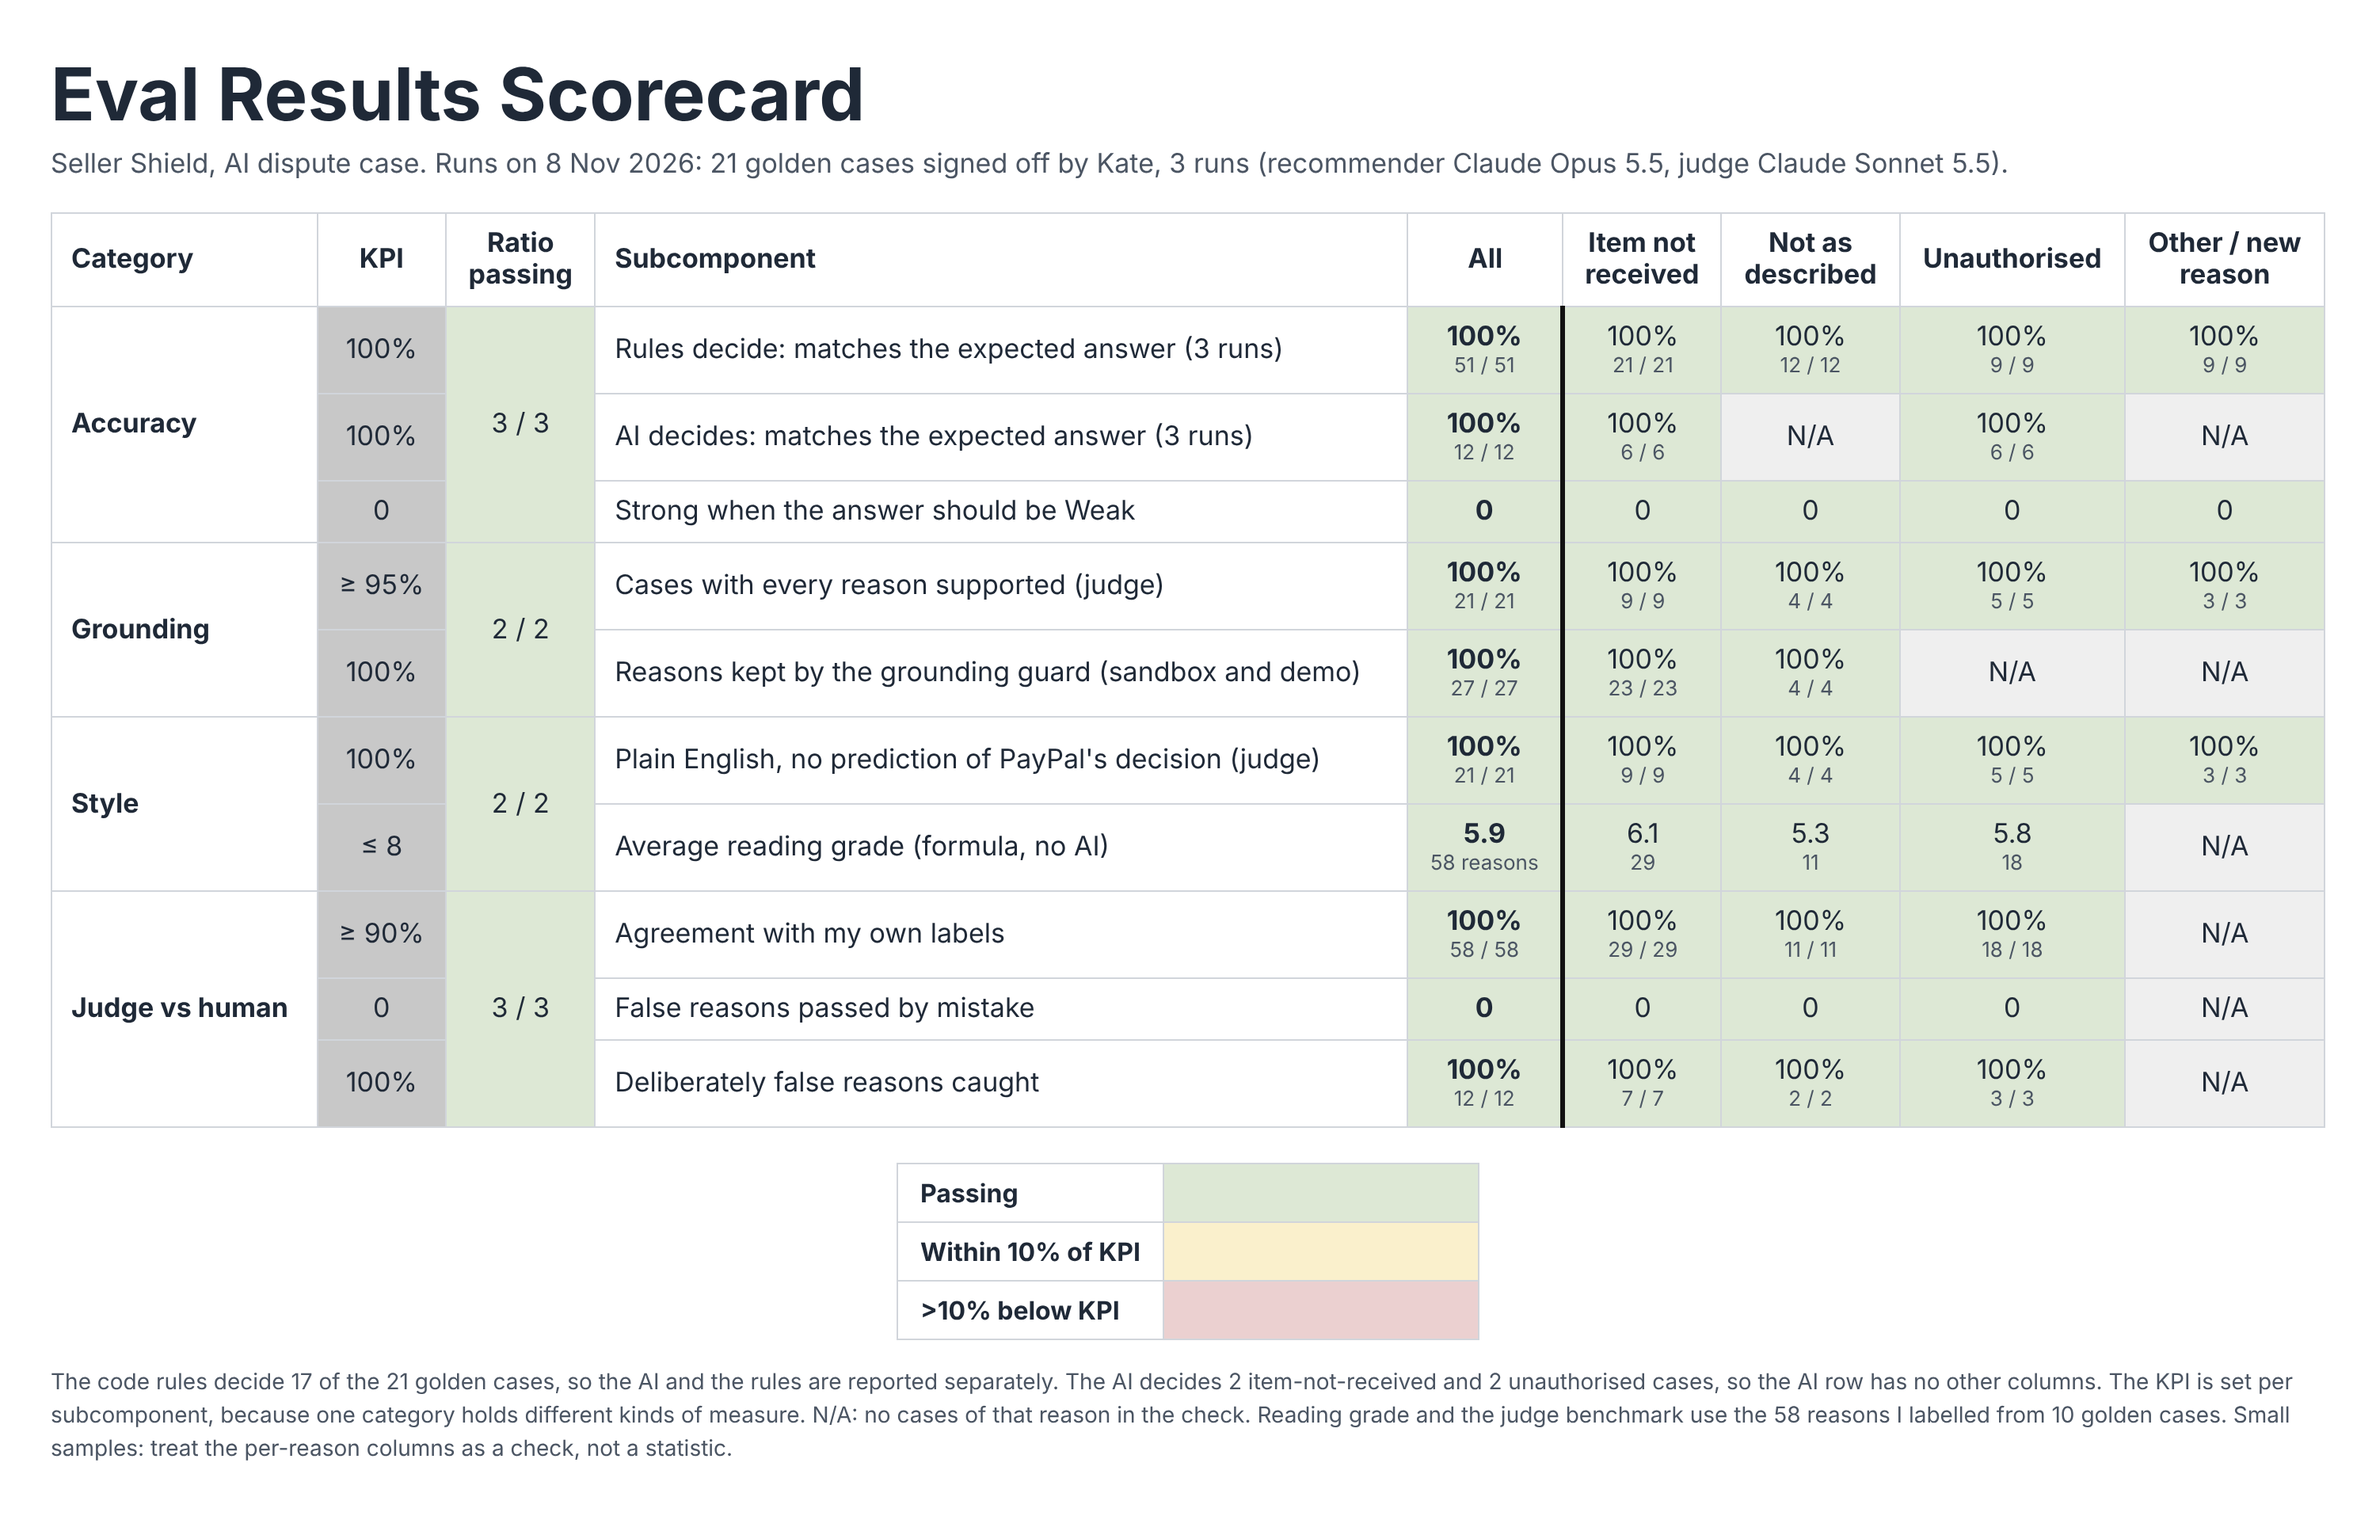
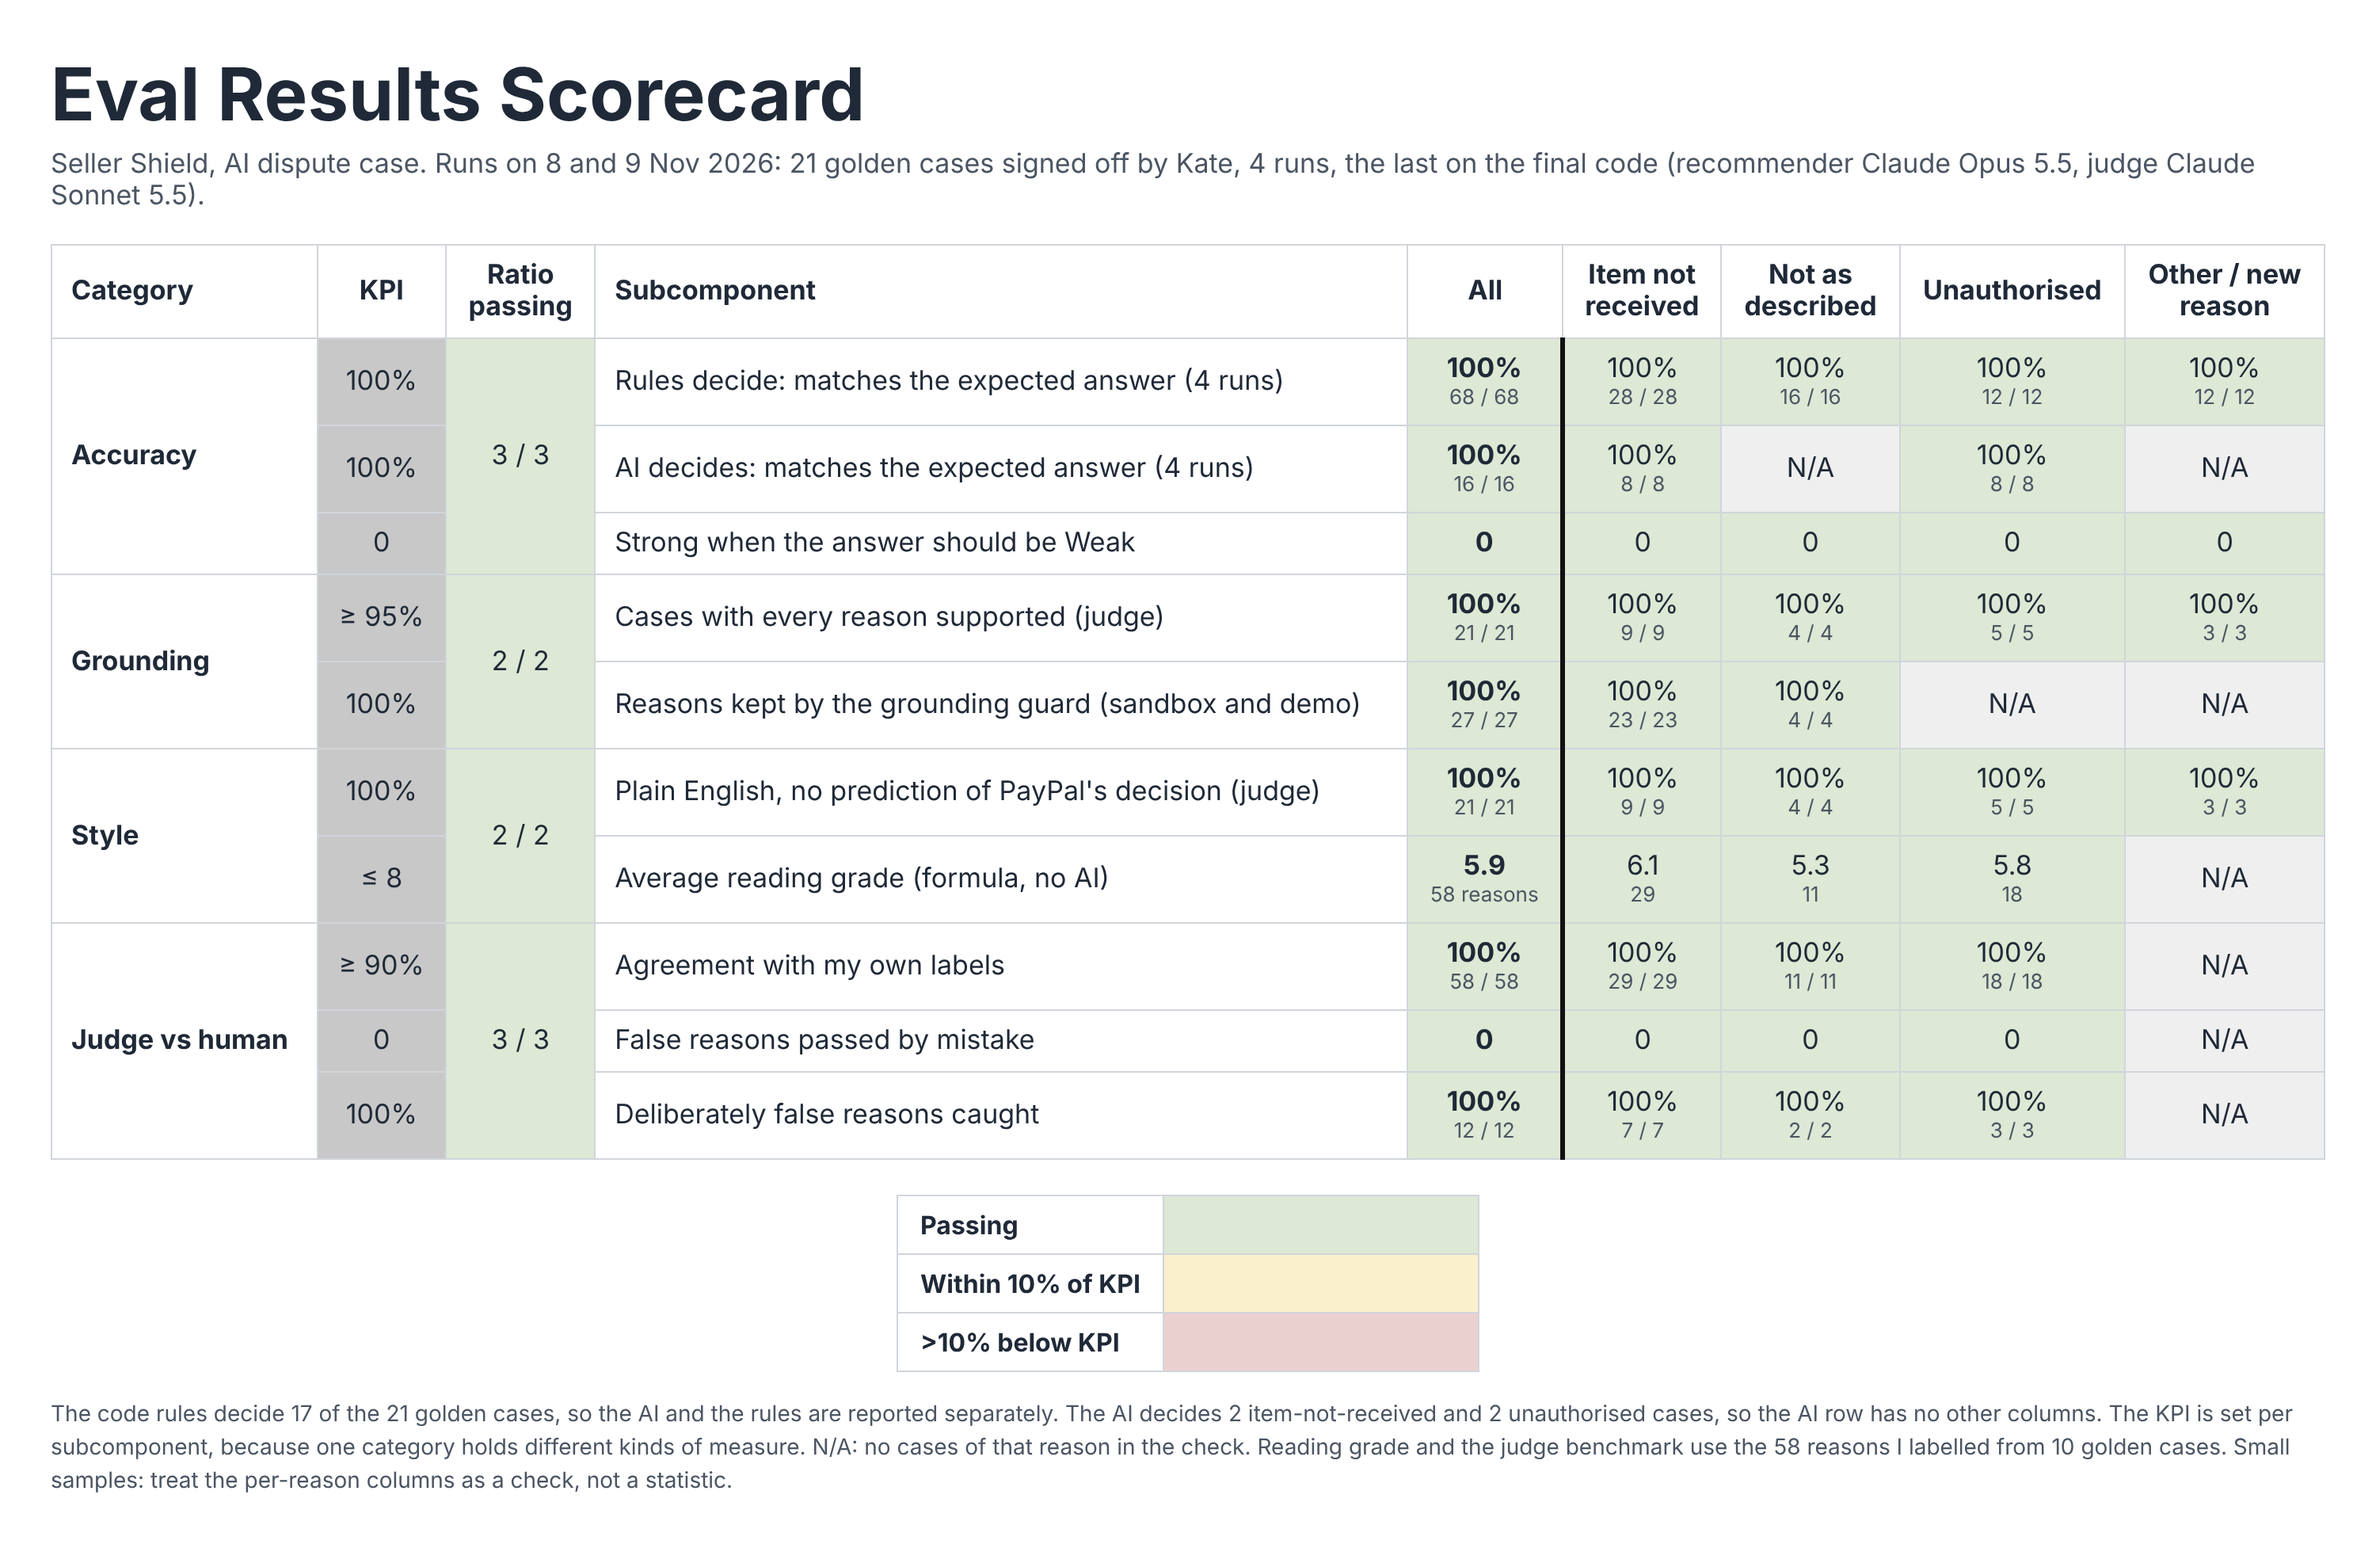
Scorecard: fourth golden run on the final code, 21/21
Claude-Session: https://claude.ai/code/session_01WXWRc9FVyqyhWyjzZ8Cym2

diff --git a/docs/eval-scorecard.md b/docs/eval-scorecard.md
@@ -6,9 +6,9 @@
 
 | Area | Metric | How it's checked | Target | Result |
 |---|---|---|---|---|
-| Rules | Golden cases the rules decide match the expected answer | golden-check, plus unit tests with no AI | 17 / 17 | 17 / 17 on all 3 runs |
-| AI | Golden cases the AI decides (G01, G03, G20, G21) match the expected answer | golden-check, 3 runs | 4 / 4 each run | 4 / 4 on all 3 runs |
-| AI | Strong when the expected answer is Weak | golden-check | 0 | 0 in 3 runs |
+| Rules | Golden cases the rules decide match the expected answer | golden-check, plus unit tests with no AI | 17 / 17 | 17 / 17 on all 4 runs |
+| AI | Golden cases the AI decides (G01, G03, G20, G21) match the expected answer | golden-check, 3 runs or more | 4 / 4 each run | 4 / 4 on all 4 runs |
+| AI | Strong when the expected answer is Weak | golden-check | 0 | 0 in 4 runs |
 | Grounding | Cases where every reason is supported | AI judge | ≥ 95% | 21 / 21 (100%) |
 | Grounding | Reasons kept by the grounding guard (sandbox disputes) | Code | 100% | 27 / 27 (8 Nov recordings) |
 | Style | Plain English, no prediction of PayPal's decision | AI judge, plus a filter in code | 100% | 21 / 21 |
@@ -20,7 +20,7 @@
 
 Reading grade: about 1 reason in 6 is above grade 8. Most of these use PayPal's own terms, such as "eligible for Seller Protection" and "proof of fulfillment", which the formula counts as hard words but a PayPal seller knows. The formula measures sentence and word length, not clarity, so it sits next to the judge's plain English check.
 
-Golden set: 21 cases, 3 runs on 8 Nov 2026, 63 of 63 answers matched. Judge: Claude Sonnet 5.5 on the same 21 cases, after the prompt change that added PayPal's rules.
+Golden set: 21 cases, 3 runs on 8 Nov 2026 and a fourth on 9 Nov on the final code (after the fourth review's fixes), 84 of 84 answers matched. Judge: Claude Sonnet 5.5 on the same 21 cases, after the prompt change that added PayPal's rules.
 
 ## 6 Nov 2026 detail
 
